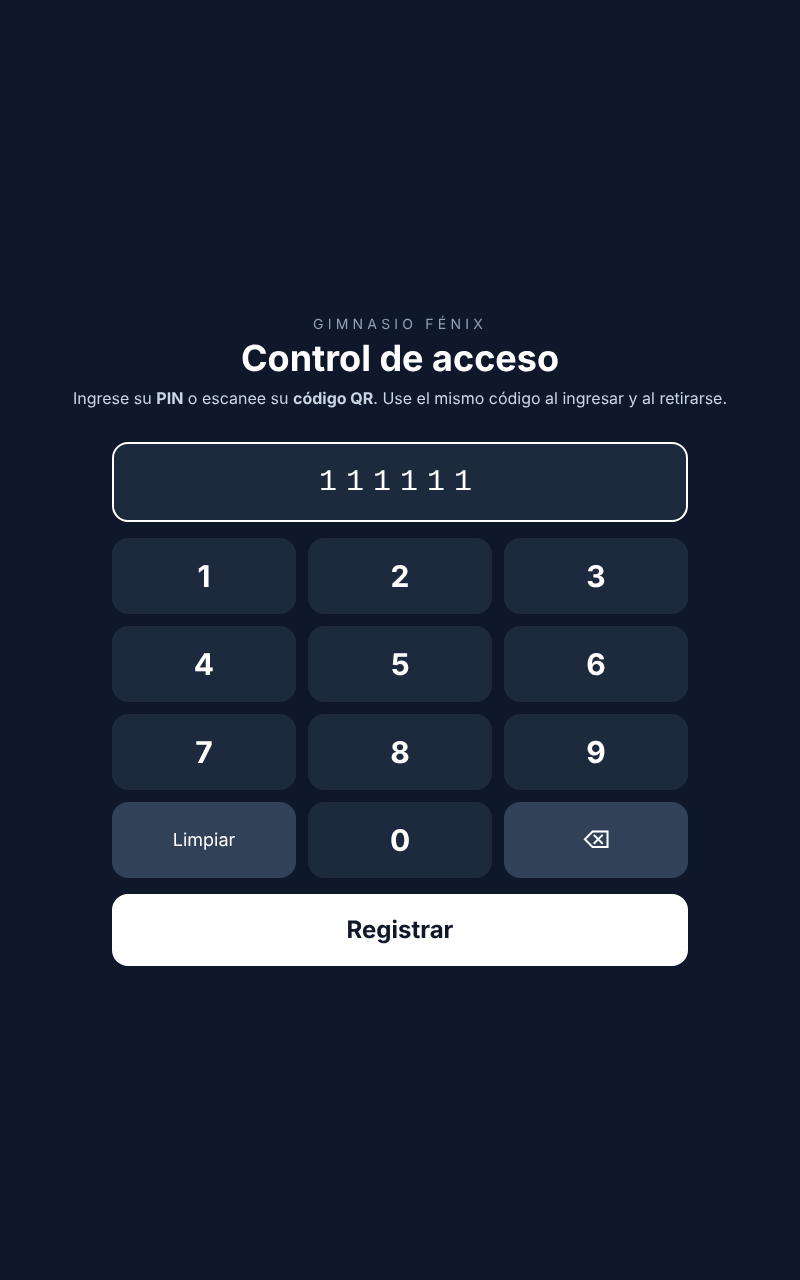
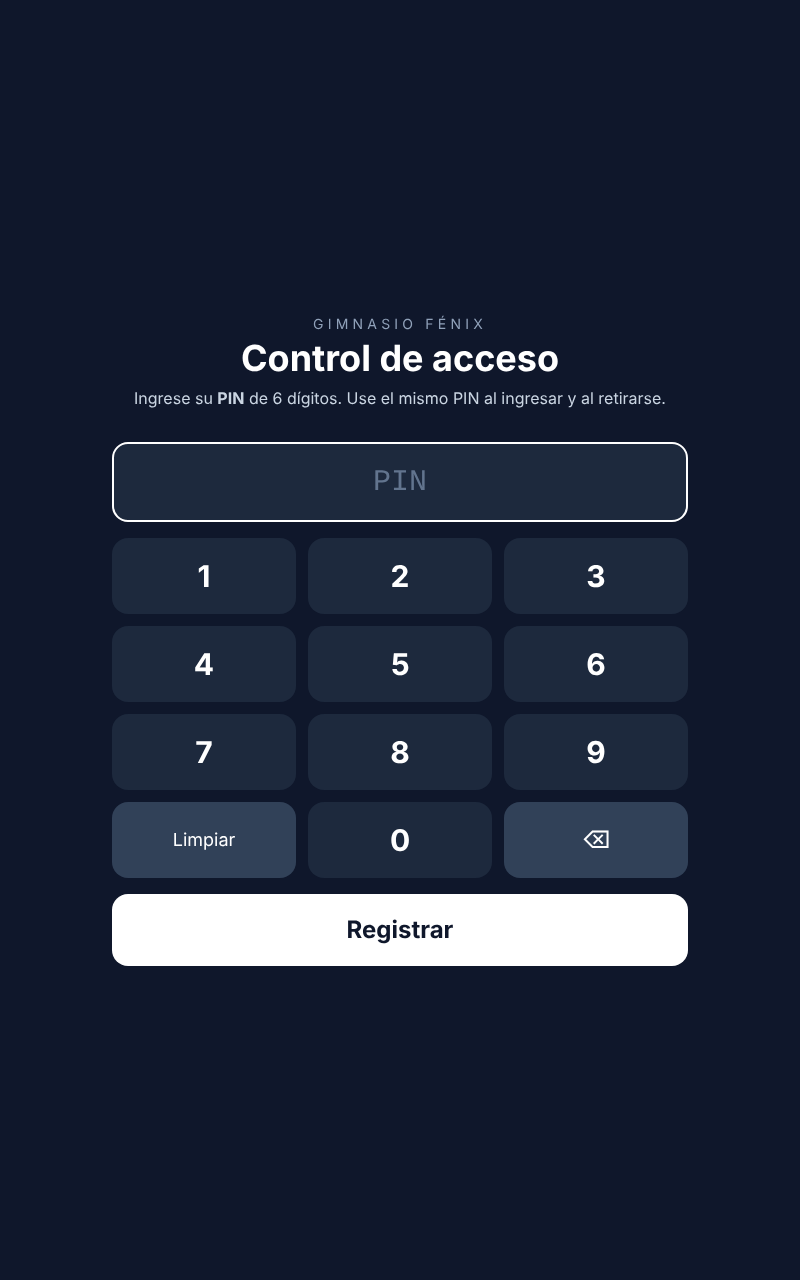
docs(acceso): ingreso solo con PIN y opción de QR en manual, README y guía
Claude-Session: https://claude.ai/code/session_01KRQk6YvzDR8utH36bAkhAa

diff --git a/docs/manual/manual-usuario.md b/docs/manual/manual-usuario.md
@@ -17,7 +17,7 @@ Las capturas se tomaron con los datos de demostración del sistema, por lo que n
 
 - Una computadora, tablet o celular con un navegador actualizado (Chrome, Firefox, Edge o Safari).
 - Conexión a internet.
-- Para la pantalla de acceso con código QR: un lector de códigos USB o la cámara del dispositivo.
+- Solo si se activa el ingreso con código QR (ver 5.6): un lector de códigos USB o la cámara del dispositivo.
 
 ### 1.2 Tipos de usuario
 
@@ -26,7 +26,7 @@ Las capturas se tomaron con los datos de demostración del sistema, por lo que n
 | Recepcionista | Correo y contraseña en `/login` | Atiende el mostrador: socios, aptos físicos, pagos, pantalla de acceso e historiales |
 | Administrador | Correo y contraseña en `/login` | Todo lo del recepcionista, más el dashboard económico, bajas, membresías, operadores, preguntas frecuentes, configuración y pedidos sobre datos personales |
 | Profesor | Correo y contraseña en `/login` | Ve los pedidos de rutina de los socios y los arma |
-| Terminal de acceso | Correo y contraseña en `/login`, una sola vez en la tablet o PC de la entrada | Solo abre la pantalla de acceso donde los socios marcan su PIN o QR; no ve socios, pagos ni importes |
+| Terminal de acceso | Correo y contraseña en `/login`, una sola vez en la tablet o PC de la entrada | Solo abre la pantalla de acceso donde los socios marcan su PIN; no ve socios, pagos ni importes |
 | Socio | DNI y PIN en `/socio/login` | Consulta su cuenta, el aforo, el chatbot, pide una rutina y ejerce sus derechos sobre sus datos |
 | Visitante | No necesita cuenta | Ve la web pública del gimnasio |
 
@@ -80,9 +80,9 @@ Un recepcionista o administrador también puede abrirla:
 
 1. Abrir **Pantalla de acceso** desde el menú.
 2. El socio marca su **PIN** de 6 dígitos con el **teclado numérico de la pantalla** (pensado para tablets táctiles;
-   *Limpiar* borra todo y ⌫ el último número) o con el teclado físico, y presiona **Registrar**. También puede pasar
-   su credencial por el lector de QR.
-   También se puede usar **Escanear QR con la cámara**.
+   *Limpiar* borra todo y ⌫ el último número) o con el teclado físico, y presiona **Registrar**. Si el
+   administrador activó el ingreso con QR (ver 5.6), también puede pasar su credencial por el lector o usar
+   **Escanear QR con la cámara**.
 3. El sistema responde en pantalla:
    - **Verde, "¡Bienvenido/a!":** el ingreso quedó registrado con la hora. Si la cuota vence en los próximos 3
      días, se muestra un aviso.
@@ -138,7 +138,7 @@ Al hacer clic en un socio se abre su ficha, con su membresía, el estado de la c
 últimos pagos y las últimas asistencias. Desde los botones de arriba se puede:
 
 - **Editar** los datos personales (y registrar el consentimiento de socios cargados antes de este requisito).
-- **Credencial PIN/QR:** muestra la credencial lista para imprimir y entregar al socio.
+- **Credencial:** muestra la credencial lista para imprimir y entregar al socio (con el QR solo si está activado).
 - **Registrar pago** (sección 4.5).
 - **Ficha PDF:** descarga la ficha personal para imprimir.
 
@@ -229,6 +229,10 @@ y la cantidad de gente en el gimnasio no hace falta cargarlos: el chatbot los re
 En **Configuración** se define la **capacidad máxima del local**, que se usa para calcular el aforo (libre por
 debajo del 50 %, moderado por debajo del 80 % y lleno desde el 80 %), y los textos de la web pública: dirección,
 teléfono, correo, Instagram y horarios.
+
+En **Pantalla de acceso**, la casilla **Permitir ingreso con código QR** viene sin marcar: el gimnasio usa solo el
+PIN, la pantalla de acceso no muestra la cámara y la credencial no imprime el QR. Cada socio conserva su código QR,
+así que si en el futuro se necesita, basta con marcar la casilla y guardar.
 
 ![Configuración](img/12-configuracion.png)
 
@@ -325,7 +329,7 @@ al menos 10 caracteres. El gimnasio responde dentro de los 5 días hábiles y la
 |---|---|
 | Un socio olvidó su PIN | Buscarlo por DNI en *Socios*; el PIN está en su ficha y se puede reimprimir la credencial |
 | Un socio se fue sin marcar la salida | No le impide volver a ingresar otro día; esa visita queda sin egreso en el historial |
-| El lector de QR no funciona | Ingresar el PIN a mano: siempre está disponible como alternativa |
+| El lector de QR no funciona | Ingresar el PIN: siempre está disponible. El QR solo funciona si está activado en *Configuración* |
 | Un operador olvidó su contraseña | El administrador escribe una nueva en *Operadores*, editando la cuenta, y se la pasa en persona |
 | El administrador olvidó su contraseña | Otro administrador la restablece; si no hay otro, el responsable técnico ejecuta `php artisan gym:clave-operador correo` en el servidor |
 | Cambió el precio de un plan | Editarlo en *Membresías*; los pagos anteriores conservan el importe cobrado |
@@ -336,7 +340,7 @@ al menos 10 caracteres. El gimnasio responde dentro de los 5 días hábiles y la
 - **Apto físico:** certificado médico que habilita a entrenar; tiene fecha de vencimiento.
 - **Aforo:** cantidad de personas dentro del gimnasio en un momento dado.
 - **Baja lógica:** el registro deja de estar activo, pero no se borra, para conservar su historial.
-- **Credencial:** tarjeta del socio con su PIN y su código QR.
+- **Credencial:** tarjeta del socio con su PIN (y su código QR si el ingreso con QR está activado).
 - **Cuota al día:** la fecha de vencimiento de la cuota es hoy o posterior.
 - **PIN:** número de 6 dígitos, único para cada socio, que identifica al socio en la pantalla de acceso y en el
   portal.

diff --git a/README.md b/README.md
@@ -14,12 +14,12 @@ Cliente: Gimnasio Fénix (Formosa). Autores: Cardozo, Diego Fabián · Heretichi
 | Autenticación y roles | Login/logout, roles `administrador`, `recepcionista` y `profesor`, middleware `rol:`, operadores activos/inactivos |
 | **Cuentas del personal** | El administrador crea, edita, desactiva y restablece la contraseña de los operadores en *Operadores*. Cada operador cambia la suya en *Mi contraseña* (clic en su nombre), escribiendo la actual. Contraseñas con bcrypt, mínimo 8 caracteres con letras y números; al cambiarla o desactivar la cuenta se cierran sus sesiones abiertas. Si nadie puede entrar: `php artisan gym:clave-operador correo` (HU30) |
 | Socios | Alta, edición, baja lógica, búsqueda reactiva (Livewire) por nombre, DNI o PIN, ficha en PDF |
-| PIN y QR | PIN único de 6 dígitos + código QR (UUID) por socio; credencial imprimible |
+| PIN y QR | PIN único de 6 dígitos + código QR (UUID) por socio; credencial imprimible. El ingreso es **solo con PIN**: el QR queda guardado y el administrador lo activa en *Configuración* si hace falta (HU33) |
 | Membresías | Planes Básica / Media / Premium (pase libre) con precio, duración y tope de horas diarias |
 | Pagos | Registro de cobros; actualiza automáticamente el vencimiento; historial filtrable e imprimible |
 | Aptos físicos | Carga del certificado (PDF/imagen, almacenado en disco privado) y control de vigencia. Solo se carga si el socio aceptó el aviso de privacidad |
 | **Privacidad (Ley 25.326)** | Aviso de privacidad público en `/privacidad`, enlazado desde la web y el portal. En el alta, el socio acepta el aviso y se guarda la fecha; a los socios anteriores se les registra desde *Editar*. Sin consentimiento no se cargan datos de salud. En *Mis datos* del portal, el socio ve sus datos personales y pide rectificarlos o suprimirlos; el administrador responde en *Datos personales* dentro de los 5 días hábiles del art. 16 (los vencidos se marcan en rojo) |
-| **Pantalla de acceso** | Ingreso/egreso con PIN o QR (lector USB o cámara). Valida socio activo + cuota vigente + apto vigente + tope de horas del plan, y si rechaza muestra todos los motivos. El egreso siempre se permite y calcula el tiempo de permanencia. Cada ingreso, egreso y rechazo (con su motivo) queda en el log de la aplicación, identificado solo por el id del socio. Para la tablet o PC de la entrada existe el rol **terminal de acceso**, que solo abre esta pantalla (mínimo privilegio, HU31). En tablets, el PIN se marca con un teclado numérico táctil en pantalla, sin abrir el teclado del sistema (HU32) |
+| **Pantalla de acceso** | Ingreso/egreso con PIN (y con QR por lector USB o cámara, si está activado en *Configuración*). Valida socio activo + cuota vigente + apto vigente + tope de horas del plan, y si rechaza muestra todos los motivos. El egreso siempre se permite y calcula el tiempo de permanencia. Cada ingreso, egreso y rechazo (con su motivo) queda en el log de la aplicación, identificado solo por el id del socio. Para la tablet o PC de la entrada existe el rol **terminal de acceso**, que solo abre esta pantalla (mínimo privilegio, HU31). En tablets, el PIN se marca con un teclado numérico táctil en pantalla, sin abrir el teclado del sistema (HU32) |
 | Historial de asistencias | Filtros por socio y fechas, permanencia, informe PDF |
 | **Página web pública** | En `/` se muestra la web del gimnasio: presentación, servicios, planes y precios (de las membresías activas), horarios, contacto, aforo en vivo, chatbot flotante y acceso al portal del socio. El administrador edita los textos en *Configuración*. La portada tiene fondo de fotos en movimiento tomadas de `public/img/portada/` (ver el `LEEME.md` de esa carpeta) y botones de acceso para socios y para el personal. Con sesión de operador, la web muestra el botón *Ir al panel* y el panel tiene el enlace *Ver web* |
 | **Portal del socio** | En `/socio`, el socio ingresa con su DNI + PIN (bloqueo tras 5 intentos fallidos por DNI) y consulta su membresía y cuota, el historial completo de asistencias con filtro por fechas, sus pagos con comprobante en PDF y sus constancias médicas (vigencia y descarga del archivo) |

diff --git a/CLAUDE.md b/CLAUDE.md
@@ -131,7 +131,8 @@ tests/Unit/              reglas puras sin base de datos (período de pago, nivel
   y pasa a `socios.fecha_vencimiento`; el socio queda activo con la membresía pagada.
 - Apto vigente = tiene un apto con `fecha_vencimiento >= hoy`. El comando `gym:actualizar-vencimientos` corre
   todos los días a las 00:05 y marca como `vencido` el `estado` de los aptos vencidos.
-- PIN de 6 dígitos y QR (UUID) únicos por socio.
+- PIN de 6 dígitos y QR (UUID) únicos por socio. El ingreso es solo con PIN; el QR se acepta únicamente si
+  `Configuracion::accesoQrHabilitado()` (casilla en *Configuración*, apagada por defecto, HU33).
 - Aforo: presentes = asistencias de hoy sin egreso; nivel libre < 50 %, moderado < 80 %, lleno ≥ 80 % de la
   capacidad configurada.
 - Chatbot sin IA ni costo: busca por palabras clave; planes, precios y aforo se responden con datos en vivo.
